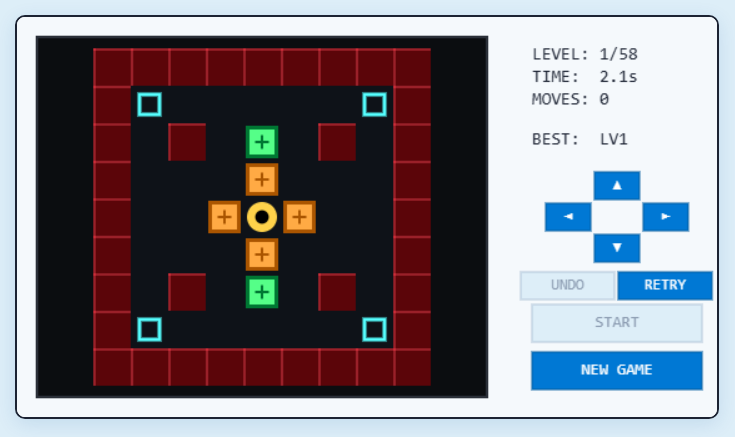
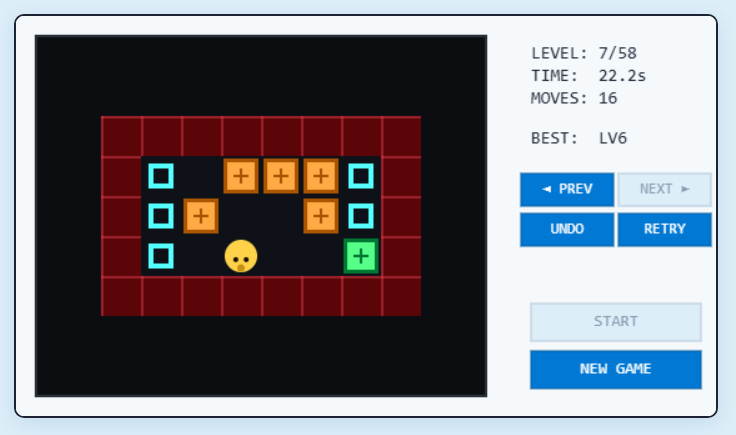
update sokoban game

diff --git a/webgames/sokoban/sokoban.js b/webgames/sokoban/sokoban.js
@@ -1,8 +1,9 @@
 // =============================================================================
 // sokoban.js  —  shell-compatible Sokoban
 // Keyboard: Arrows push · Z undo · R retry level
-// Mobile:   D-pad buttons · swipe to move · UNDO / RETRY buttons
-// Shell RESET = "NEW GAME" (restart from level 1)
+// Mobile:   Swipe to move · PREV / NEXT / UNDO / RETRY sidebar buttons
+// Shell START  = resume from personal-best level (NEW GAME restarts at level 1)
+// Shell RESET  = "NEW GAME" (restart from level 1)
 //
 // Level file:  sokoban/sokoban.lev   (fetched at init)
 //
@@ -38,27 +39,22 @@ const SK_COL_CRATE_OUT  = "#AA5500";
 const SK_COL_CRATE_IN   = "#FFAA44";
 const SK_COL_PLACED_OUT = "#007733";
 const SK_COL_PLACED_IN  = "#55FF88";
-const SK_COL_PLAYER     = "#FFD24A";
+const SK_COL_PLAYER     = "#FFD24A";   // body fill
+const SK_COL_PLAYER_SH  = "#c89010";  // shadow / dark accent on body
 
-// ── mobile d-pad layout ───────────────────────────────────────────────────────
-// Sits between the stats block (ends ~y+102) and the shell buttons (y+214)
-const SK_DB_W   = 36;   // d-pad button width
-const SK_DB_H   = 22;   // d-pad button height
-const SK_DB_GAP = 3;    // gap between d-pad buttons
-// center the d-pad column within the sidebar
-const SK_DPAD_CX = SHELL_SBX + Math.floor((SHELL_SBW - SK_DB_W) / 2);  // 462
-const SK_DPAD_Y0 = SHELL_SBY + 108;                                      // 124
+// ── sidebar action buttons ────────────────────────────────────────────────────
+// Two rows of two buttons between the stats block and the shell buttons.
+// Available canvas y-space:  SHELL_SBY+108  to  +208.
+const SK_DB_GAP  = 4;
+const SK_ACT_W   = Math.floor((SHELL_SBW - SK_DB_GAP * 3) / 2);   // 74 px
+const SK_ACT_H   = 26;
+const SK_ROW1_Y  = SHELL_SBY + 110;                                 // 126 — PREV / NEXT
+const SK_ROW2_Y  = SK_ROW1_Y + SK_ACT_H + 6;                       // 158 — UNDO / RETRY
 
-const SK_DBTN_UP    = { x: SK_DPAD_CX,                          y: SK_DPAD_Y0,                              w: SK_DB_W, h: SK_DB_H };
-const SK_DBTN_LEFT  = { x: SK_DPAD_CX - SK_DB_W - SK_DB_GAP,   y: SK_DPAD_Y0 +   SK_DB_H + SK_DB_GAP,     w: SK_DB_W, h: SK_DB_H };
-const SK_DBTN_RIGHT = { x: SK_DPAD_CX + SK_DB_W + SK_DB_GAP,   y: SK_DPAD_Y0 +   SK_DB_H + SK_DB_GAP,     w: SK_DB_W, h: SK_DB_H };
-const SK_DBTN_DOWN  = { x: SK_DPAD_CX,                          y: SK_DPAD_Y0 + 2*(SK_DB_H + SK_DB_GAP),   w: SK_DB_W, h: SK_DB_H };
-
-// UNDO + RETRY side by side below the d-pad
-const SK_ACT_Y  = SK_DPAD_Y0 + 3 * (SK_DB_H + SK_DB_GAP) + 5;  // 204
-const SK_ACT_W  = Math.floor((SHELL_SBW - SK_DB_GAP * 3) / 2);  // 75
-const SK_DBTN_UNDO  = { x: SHELL_SBX + SK_DB_GAP,                  y: SK_ACT_Y, w: SK_ACT_W, h: SK_DB_H };
-const SK_DBTN_RETRY = { x: SHELL_SBX + SK_ACT_W + SK_DB_GAP * 2,   y: SK_ACT_Y, w: SK_ACT_W, h: SK_DB_H };
+const SK_DBTN_PREV  = { x: SHELL_SBX + SK_DB_GAP,               y: SK_ROW1_Y, w: SK_ACT_W, h: SK_ACT_H };
+const SK_DBTN_NEXT  = { x: SHELL_SBX + SK_ACT_W + SK_DB_GAP*2,  y: SK_ROW1_Y, w: SK_ACT_W, h: SK_ACT_H };
+const SK_DBTN_UNDO  = { x: SHELL_SBX + SK_DB_GAP,               y: SK_ROW2_Y, w: SK_ACT_W, h: SK_ACT_H };
+const SK_DBTN_RETRY = { x: SHELL_SBX + SK_ACT_W + SK_DB_GAP*2,  y: SK_ROW2_Y, w: SK_ACT_W, h: SK_ACT_H };
 
 // ── state ─────────────────────────────────────────────────────────────────────
 const SK_ST_IDLE    = 0;
@@ -81,6 +77,8 @@ let solvedMs = 0;
 let undoStack = [];
 let cdActive = false, cdMsLeft = 0, cdShown = 0;
 
+let _facingDir = "down";   // "up" | "down" | "left" | "right"
+
 let shellState = SK_ST_IDLE;
 let _acc = 0;
 let _cx;
@@ -101,12 +99,14 @@ const GAME = {
         _fetchLevels();
     },
 
+    // START: resume from personal-best level (or level 1 if no PB yet)
     start(){
         if(_loading || _loadErr || _levels.length === 0) return;
-        levelIdx = 0;
+        levelIdx = Math.min(pb, _levels.length - 1);
         _startLevel();
     },
 
+    // NEW GAME (shell RESET button): always restart from level 1
     reset(){
         if(_loading || _loadErr || _levels.length === 0) return;
         levelIdx = 0;
@@ -121,18 +121,16 @@ const GAME = {
 
     draw(){ _draw(); },
 
-    // d-pad + action buttons
+    // sidebar action buttons
     onClick(mx, my){
         if(shellState === SK_ST_IDLE) return;
-        if(_skPtIn(mx, my, SK_DBTN_UP))    { _tryMove(-gridW);       return; }
-        if(_skPtIn(mx, my, SK_DBTN_DOWN))  { _tryMove(+gridW);       return; }
-        if(_skPtIn(mx, my, SK_DBTN_LEFT))  { _tryMove(-1);           return; }
-        if(_skPtIn(mx, my, SK_DBTN_RIGHT)) { _tryMove(+1);           return; }
-        if(_skPtIn(mx, my, SK_DBTN_UNDO))  { _undo();                return; }
-        if(_skPtIn(mx, my, SK_DBTN_RETRY)) { _resetCurrentLevel();   return; }
+        if(_skPtIn(mx, my, SK_DBTN_PREV)){  if(levelIdx > 0)    _navLevel(-1); return; }
+        if(_skPtIn(mx, my, SK_DBTN_NEXT)){  if(levelIdx < pb)   _navLevel(+1); return; }
+        if(_skPtIn(mx, my, SK_DBTN_UNDO)){  _undo();                           return; }
+        if(_skPtIn(mx, my, SK_DBTN_RETRY)){ _resetCurrentLevel();              return; }
     },
 
-    // swipe also steers (bonus, same as d-pad)
+    // swipe steers the player
     onSwipe(dir){
         if(shellState === SK_ST_IDLE || cdActive || solved || allDone) return;
         if(dir === "up")    _tryMove(-gridW);
@@ -239,7 +237,8 @@ function _loadLevel(idx){
         }
     }
     moves = 0; elapsedMs = 0; solved = false;
-    undoStack = [];
+    undoStack  = [];
+    _facingDir = "down";
     _computeLayout();
 }
 
@@ -257,9 +256,12 @@ function _resetCurrentLevel(){
     solvedMs = 0;
 }
 
-// Secret level jump — + / - keys (not shown in subtitle)
-function _jumpLevel(dir){
-    levelIdx = Math.max(0, Math.min(_levels.length - 1, levelIdx + dir));
+// Navigate to an adjacent level — NEXT is capped at pb (last beaten level index)
+function _navLevel(dir){
+    const target = levelIdx + dir;
+    if(target < 0 || target >= _levels.length) return;
+    if(dir > 0 && target > pb) return;    // can't skip ahead of earned progress
+    levelIdx = target;
     _loadLevel(levelIdx);
     cdActive = true; cdMsLeft = SK_CD_MS; cdShown = Math.ceil(SK_CD_MS / 1000);
     solvedMs = 0; solved = false; allDone = false;
@@ -274,20 +276,27 @@ function _isSolved(){
 }
 
 function _saveUndo(){
-    undoStack.push({ p: playerIdx, m: mArr.slice() });
+    undoStack.push({ p: playerIdx, m: mArr.slice(), d: _facingDir });
     if(undoStack.length > 200) undoStack.shift();
 }
 
 function _undo(){
     if(!undoStack.length) return;
     const snap = undoStack.pop();
-    playerIdx = snap.p;
-    mArr      = snap.m;
-    moves     = Math.max(0, moves - 1);
+    playerIdx  = snap.p;
+    mArr       = snap.m;
+    _facingDir = snap.d;
+    moves      = Math.max(0, moves - 1);
 }
 
 function _tryMove(off){
     if(cdActive || solved || allDone) return;
+
+    // update facing direction from the attempted offset
+    if     (off === -1)    _facingDir = "left";
+    else if(off ===  1)    _facingDir = "right";
+    else if(off < 0)       _facingDir = "up";
+    else                   _facingDir = "down";
 
     const n = playerIdx + off;
     if(n < 0 || n >= mArr.length) return;
@@ -375,8 +384,6 @@ function _onKey(e){
     if(shellState === SK_ST_IDLE) return;
     if(e.key === 'z' || e.key === 'Z'){ e.preventDefault(); _undo();              return; }
     if(e.key === 'r' || e.key === 'R'){ e.preventDefault(); _resetCurrentLevel(); return; }
-    if(e.key === '+'                 ){ e.preventDefault(); _jumpLevel(+1);       return; }
-    if(e.key === '-'                 ){ e.preventDefault(); _jumpLevel(-1);       return; }
     if(e.key === 'ArrowLeft' ){ e.preventDefault(); _tryMove(-1);     return; }
     if(e.key === 'ArrowRight'){ e.preventDefault(); _tryMove(+1);     return; }
     if(e.key === 'ArrowUp'   ){ e.preventDefault(); _tryMove(-gridW); return; }
@@ -403,14 +410,64 @@ function _skDrawBtn(btn, label, active){
     _cx.textBaseline = "alphabetic";
 }
 
-function _drawDpad(){
-    const canMove = shellState === SK_ST_PLAYING && !cdActive && !solved && !allDone;
-    _skDrawBtn(SK_DBTN_UP,    "\u25B2", canMove);
-    _skDrawBtn(SK_DBTN_LEFT,  "\u25C4", canMove);
-    _skDrawBtn(SK_DBTN_RIGHT, "\u25BA", canMove);
-    _skDrawBtn(SK_DBTN_DOWN,  "\u25BC", canMove);
-    _skDrawBtn(SK_DBTN_UNDO,  "UNDO",   canMove && undoStack.length > 0);
-    _skDrawBtn(SK_DBTN_RETRY, "RETRY",  shellState === SK_ST_PLAYING);
+function _drawSidebarBtns(){
+    const playing = shellState === SK_ST_PLAYING;
+    const canMove = playing && !cdActive && !solved && !allDone;
+    _skDrawBtn(SK_DBTN_PREV,  "\u25C4 PREV", playing && levelIdx > 0);
+    _skDrawBtn(SK_DBTN_NEXT,  "NEXT \u25BA", playing && levelIdx < pb);
+    _skDrawBtn(SK_DBTN_UNDO,  "UNDO",        canMove && undoStack.length > 0);
+    _skDrawBtn(SK_DBTN_RETRY, "RETRY",       playing);
+}
+
+// ── player sprite ─────────────────────────────────────────────────────────────
+// Top-down view: round body, two eyes and a nose-dot pointing in _facingDir.
+// Everything is relative to CELL so it scales cleanly from ~10 px to 32 px.
+// At very small radii (r < 3) only the body circle is drawn.
+function _drawPlayer(px, py){
+    const cx  = px + CELL / 2;
+    const cy  = py + CELL / 2;
+    const pad = Math.max(2, Math.floor(CELL * 0.08));
+    const r   = CELL / 2 - pad - 1;   // body radius
+
+    // unit vector pointing in the facing direction
+    const fdx = _facingDir === "left" ? -1 : _facingDir === "right" ? 1 : 0;
+    const fdy = _facingDir === "up"   ? -1 : _facingDir === "down"  ? 1 : 0;
+
+    // perpendicular axis (for eye spread left/right of facing direction)
+    const pdx = -fdy;
+    const pdy =  fdx;
+
+    // drop shadow
+    _cx.fillStyle = "rgba(0,0,0,0.30)";
+    _cx.beginPath(); _cx.arc(cx + 1, cy + 1, r, 0, Math.PI * 2); _cx.fill();
+
+    // body
+    _cx.fillStyle = SK_COL_PLAYER;
+    _cx.beginPath(); _cx.arc(cx, cy, r, 0, Math.PI * 2); _cx.fill();
+
+    if(r < 3) return;   // too small for face detail
+
+    // face centre is shifted slightly toward the facing direction
+    const fcx = cx + fdx * r * 0.22;
+    const fcy = cy + fdy * r * 0.22;
+
+    // nose: darker filled circle at the leading edge
+    const noseR = Math.max(1, Math.round(r * 0.20));
+    _cx.fillStyle = SK_COL_PLAYER_SH;
+    _cx.beginPath();
+    _cx.arc(fcx + fdx * r * 0.52, fcy + fdy * r * 0.52, noseR, 0, Math.PI * 2);
+    _cx.fill();
+
+    // eyes: two dark dots spread along the perpendicular axis
+    const eyeR      = Math.max(1, Math.round(r * 0.16));
+    const eyeSpread = r * 0.32;
+    _cx.fillStyle = "#1c1008";
+    _cx.beginPath();
+    _cx.arc(fcx + pdx * eyeSpread, fcy + pdy * eyeSpread, eyeR, 0, Math.PI * 2);
+    _cx.fill();
+    _cx.beginPath();
+    _cx.arc(fcx - pdx * eyeSpread, fcy - pdy * eyeSpread, eyeR, 0, Math.PI * 2);
+    _cx.fill();
 }
 
 function _drawTile(tx, ty, ch, isPlayer){
@@ -454,14 +511,7 @@ function _drawTile(tx, ty, ch, isPlayer){
         _cx.moveTo(cx2, cy2-hr); _cx.lineTo(cx2, cy2+hr);
         _cx.stroke();
     }
-    if(isPlayer){
-        const r   = CELL/2 - pad - 1;
-        const cx2 = px + CELL/2, cy2 = py + CELL/2;
-        _cx.fillStyle = SK_COL_PLAYER;
-        _cx.beginPath(); _cx.arc(cx2, cy2, r, 0, Math.PI*2); _cx.fill();
-        _cx.fillStyle = "#000";
-        _cx.beginPath(); _cx.arc(cx2, cy2, r*0.45, 0, Math.PI*2); _cx.fill();
-    }
+    if(isPlayer) _drawPlayer(px, py);
 }
 
 function _drawBoard(){
@@ -489,7 +539,7 @@ function _drawSidebar(){
     _cx.fillText("TIME:  " + (elapsedMs/1000).toFixed(1) + "s",    sx, sy+36);
     _cx.fillText("MOVES: " + moves,                                 sx, sy+54);
     _cx.fillText("BEST:  LV" + (pb || "--"),                        sx, sy+86);
-    _drawDpad();
+    _drawSidebarBtns();
 }
 
 function _drawCountdown(){
@@ -531,10 +581,17 @@ function _drawIdleOverlay(){
     _cx.globalAlpha = 1.0;
     _cx.textAlign = "center";
     _cx.fillStyle = "#fff"; _cx.font = _uf(22);
-    _cx.fillText("SOKOBAN", SHELL_PFX + SHELL_PFW/2, SHELL_PFY + SHELL_PFH/2 - 24);
+    _cx.fillText("SOKOBAN", SHELL_PFX + SHELL_PFW/2, SHELL_PFY + SHELL_PFH/2 - 30);
     _cx.fillStyle = "#93a0b3"; _cx.font = _uf(12);
-    _cx.fillText("Push boxes \u25A1 onto goals \u25A6",       SHELL_PFX + SHELL_PFW/2, SHELL_PFY + SHELL_PFH/2 - 2);
-    _cx.fillText("Arrows \u00B7 Z undo \u00B7 R retry level", SHELL_PFX + SHELL_PFW/2, SHELL_PFY + SHELL_PFH/2 + 14);
+    _cx.fillText("Push boxes \u25A1 onto goals \u25A6",        SHELL_PFX + SHELL_PFW/2, SHELL_PFY + SHELL_PFH/2 - 8);
+    _cx.fillText("Arrows \u00B7 Z undo \u00B7 R retry level",  SHELL_PFX + SHELL_PFW/2, SHELL_PFY + SHELL_PFH/2 + 8);
+    if(pb > 0){
+        _cx.fillStyle = "#55FF88"; _cx.font = _uf(11);
+        _cx.fillText(
+            "START resumes at level " + (pb + 1),
+            SHELL_PFX + SHELL_PFW/2, SHELL_PFY + SHELL_PFH/2 + 26
+        );
+    }
     _cx.textAlign = "left";
 }
 
